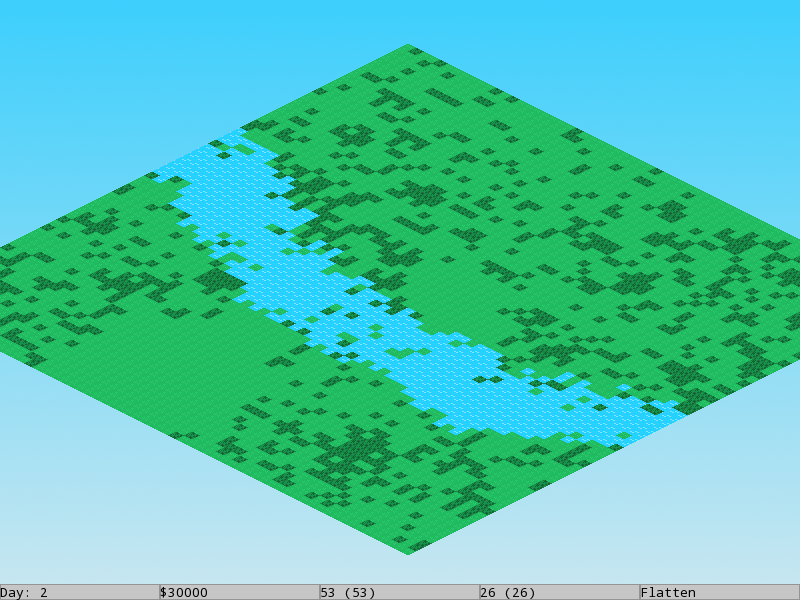
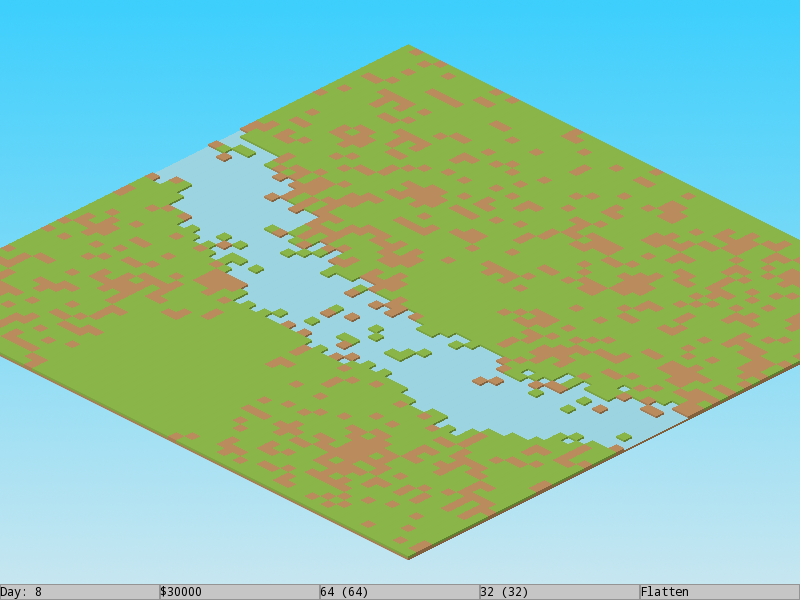
Update the README

diff --git a/README.md b/README.md
@@ -1,8 +1,12 @@
 # CityBuilder
 
-A simple city building game inspired by [Daniel Mansfield's tutorial](https://www.binpress.com/tutorial/creating-a-city-building-game-with-sfml/137).
+A simple city building game.
 
 # Screenshots
 
 ![Screenshot 1](https://github.com/pvigier/CityBuilder/raw/master/images/screenshot1.png)
 ![Screenshot 2](https://github.com/pvigier/CityBuilder/raw/master/images/screenshot2.png)
+
+# Credits
+
+Assets done by [Kenney](https://opengameart.org/users/kenney).
